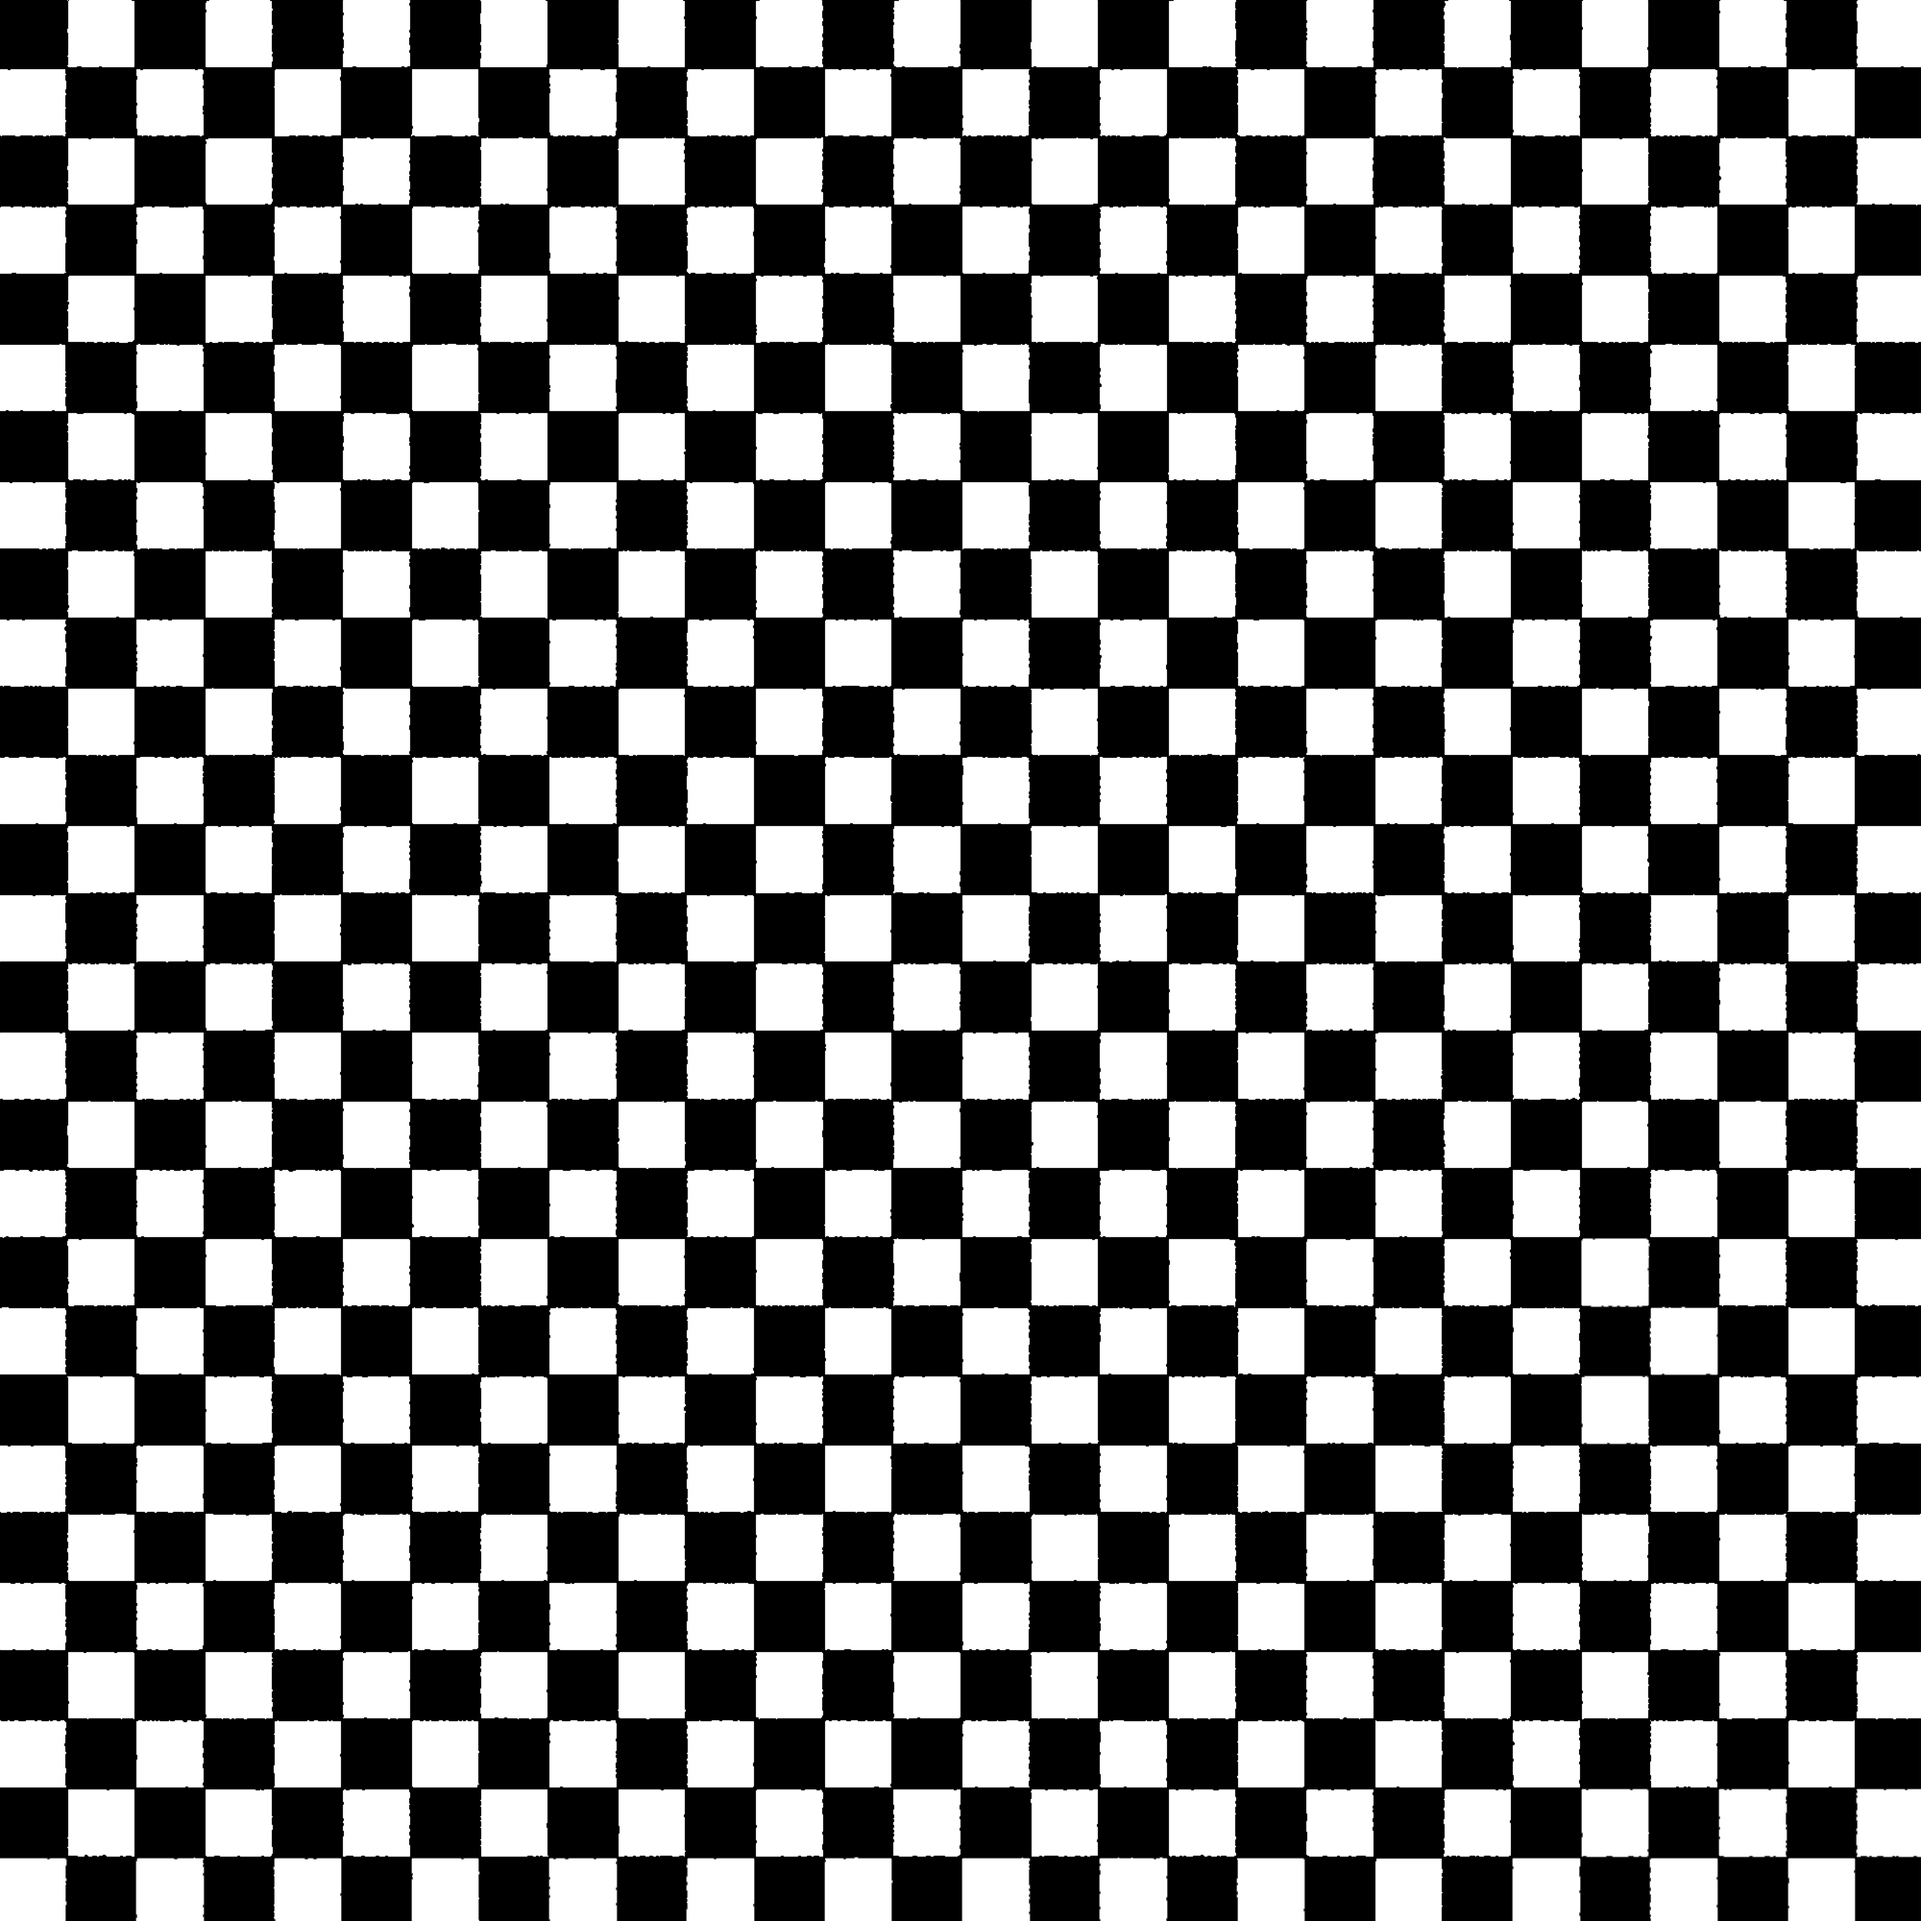
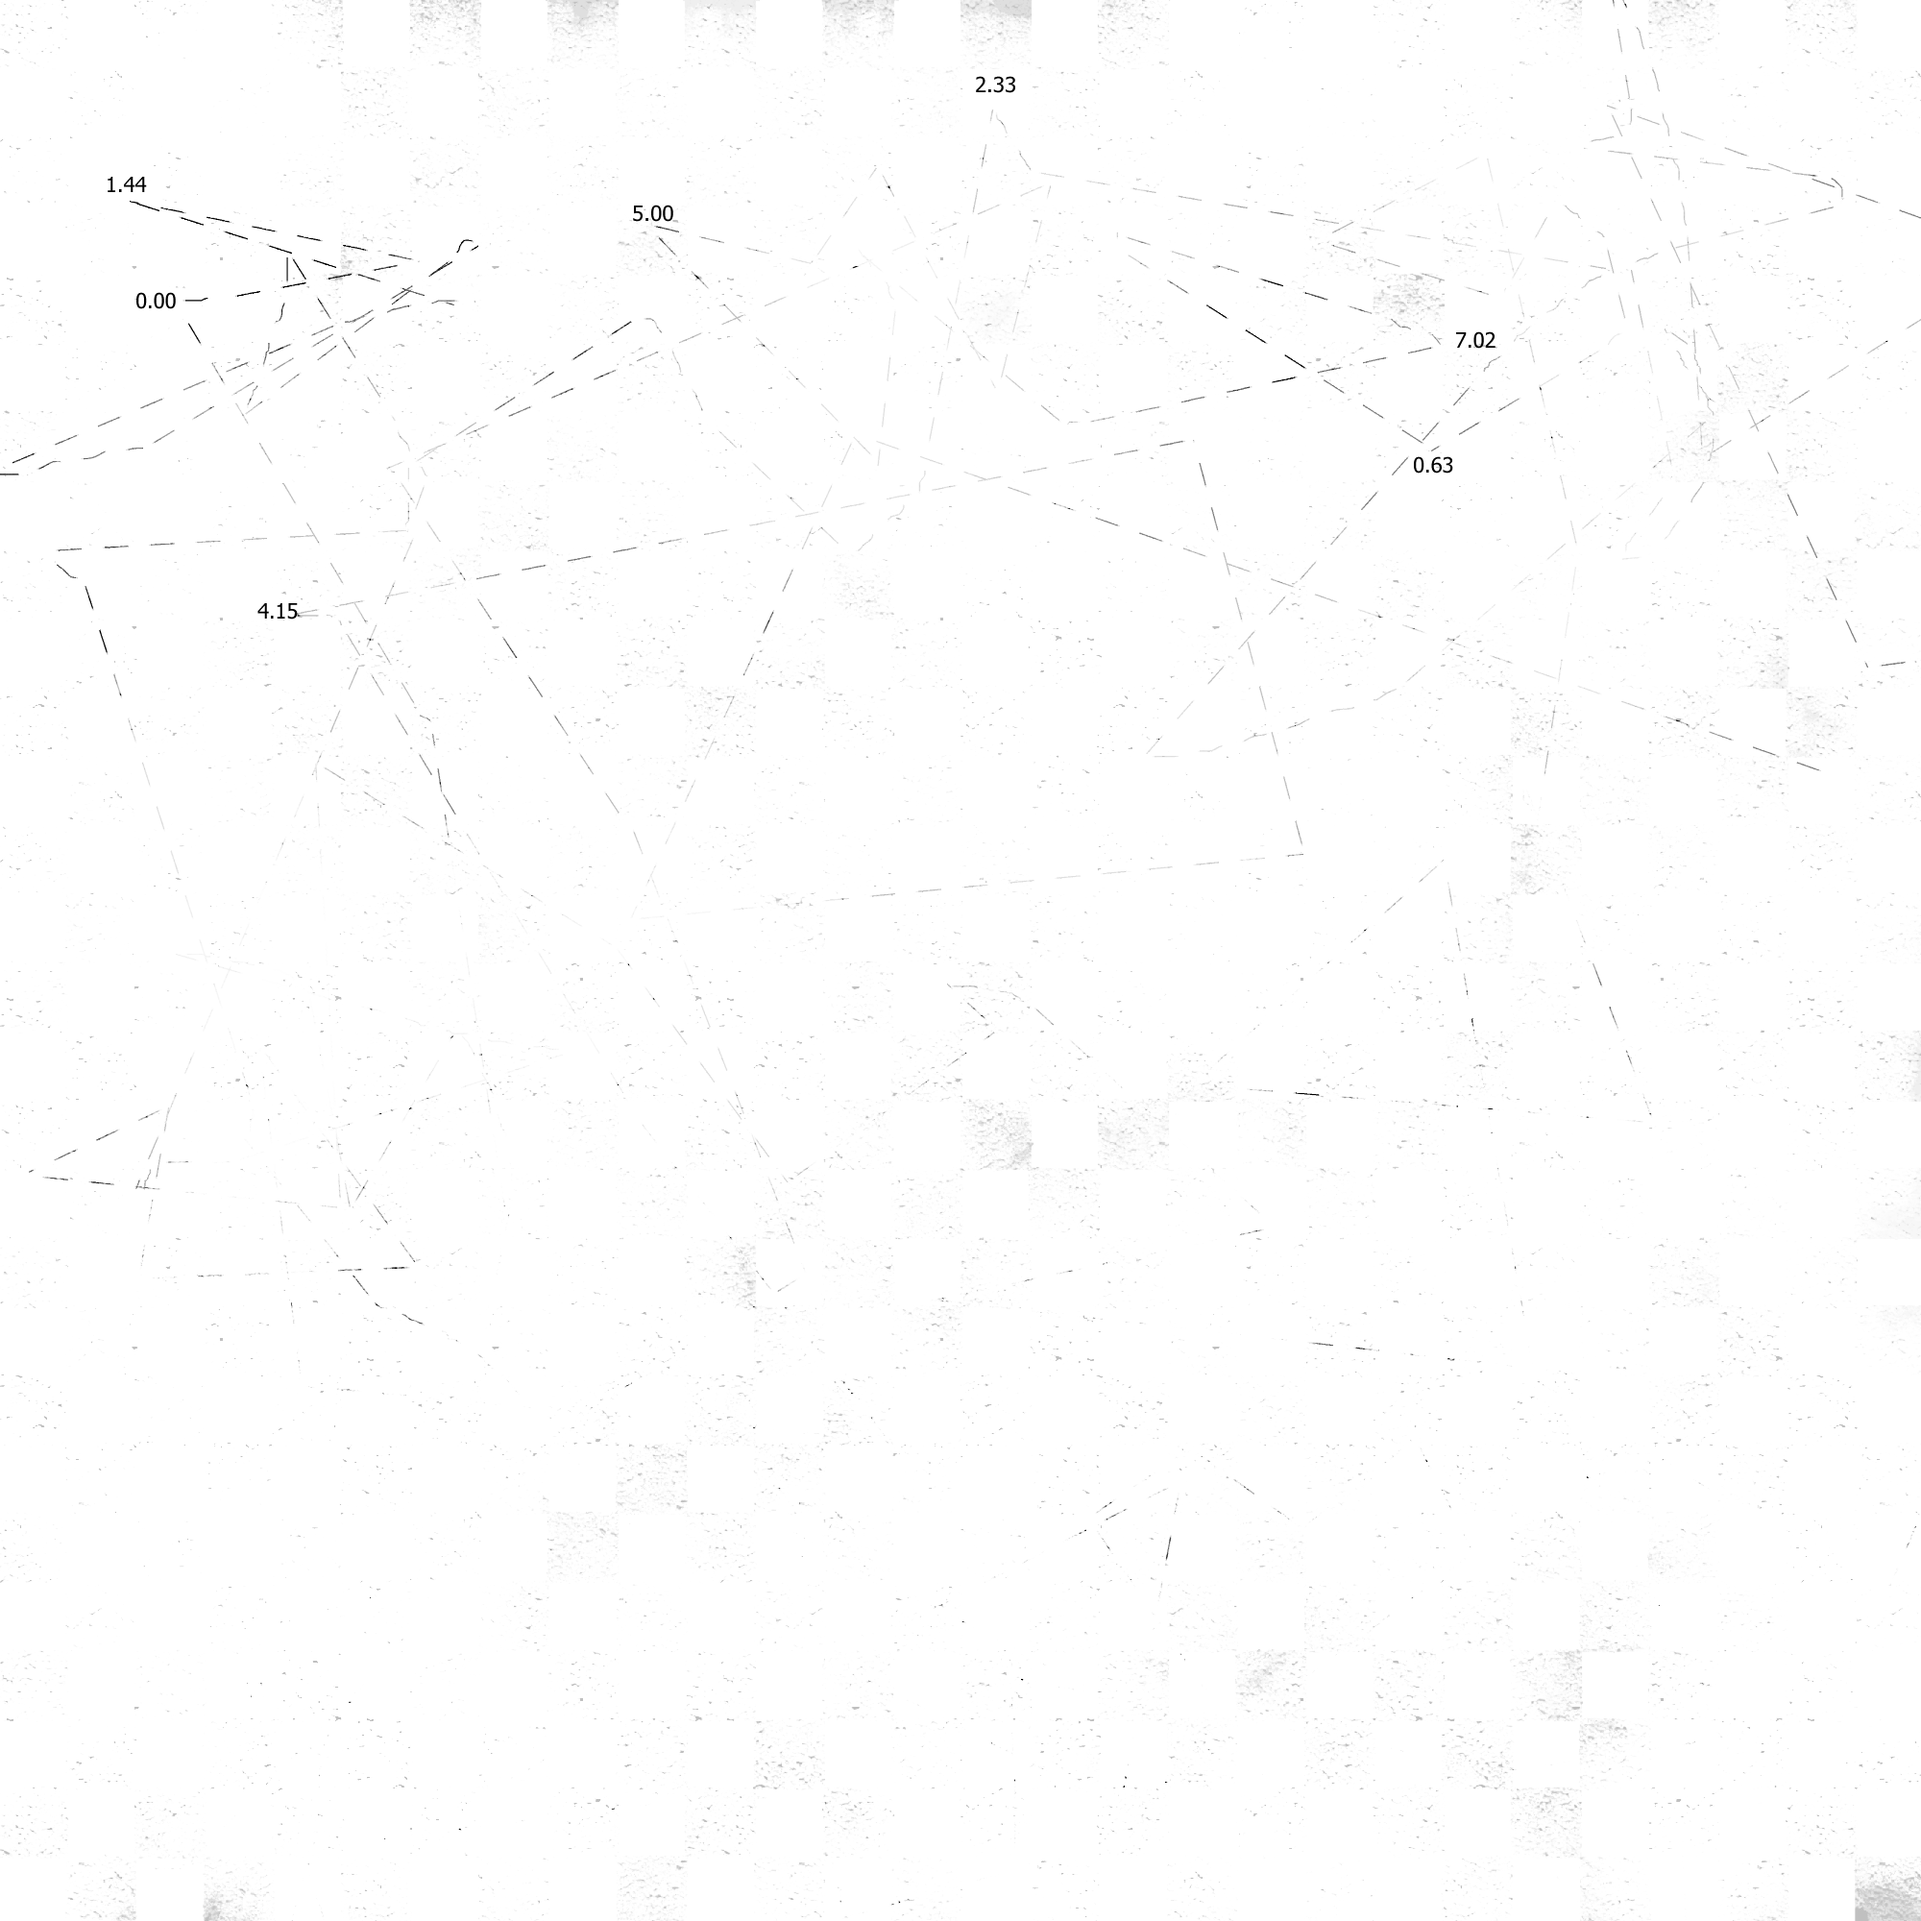
regles de masquage perso en mode fichier

diff --git a/extension/popup/popup.js b/extension/popup/popup.js
@@ -29148,10 +29148,9 @@ function activeEntities() {
   const sel = selectActive(autoEntities, [...manualEntities, ...forced], removedKeys);
   return filterByRules(sel, { disabledTypes, keepValues: parseLines($("alwaysKeep")?.value) });
 }
-function renderTypeToggles() {
+function renderTypeToggles(types) {
   const box = $("typeToggles");
   if (!box) return;
-  const types = [...new Set(autoEntities.map((e) => e.type))];
   if (!types.length) {
     box.innerHTML = '<span class="hint">Lance une analyse pour voir les types d\xE9tect\xE9s.</span>';
     return;
@@ -29217,7 +29216,7 @@ function refreshOverlayIfOpen() {
 function render() {
   const entities = activeEntities();
   $("results").hidden = false;
-  renderTypeToggles();
+  renderTypeToggles([...new Set(autoEntities.map((e) => e.type))]);
   const annPreview = clipToLimit(currentText, entities, PREVIEW_LIMIT);
   $("annotated").innerHTML = annotateHTML(annPreview.text, annPreview.entities) + (annPreview.truncated ? "\u2026" : "");
   $("annotatedMoreBtn").hidden = !annPreview.truncated;
@@ -29396,6 +29395,23 @@ var FILE_TYPES = {
 var chosenFile = null;
 var fileOutBlob = null;
 var fileOutName = "";
+var fileDisabledTypes = /* @__PURE__ */ new Set();
+function renderFileTypeToggles() {
+  const box = $("fileTypeToggles");
+  if (!box) return;
+  box.innerHTML = Object.entries(TYPE_DISPLAY).filter(([t]) => t !== "PERSONNALISE").map(([t, label]) => {
+    const off = fileDisabledTypes.has(t);
+    return `<label class="type-chip ${off ? "off" : ""}"><input type="checkbox" data-type="${t}" ${off ? "" : "checked"}>${esc(label)}</label>`;
+  }).join("");
+}
+renderFileTypeToggles();
+$("fileTypeToggles")?.addEventListener("change", (ev) => {
+  const cb = ev.target.closest("input[data-type]");
+  if (!cb) return;
+  if (cb.checked) fileDisabledTypes.delete(cb.dataset.type);
+  else fileDisabledTypes.add(cb.dataset.type);
+  renderFileTypeToggles();
+});
 function fileSetStatus(msg, cls = "") {
   $("fileStatus").textContent = msg;
   $("fileStatus").className = "status " + cls;
@@ -29447,7 +29463,7 @@ async function processFile() {
   fileSetStatus("Lecture du fichier\u2026");
   try {
     const adapter = await kind.load();
-    const { anonymizeUnits } = await import("./anonymize-units-WAGIYB3A.js");
+    const { anonymizeUnits } = await import("./anonymize-units-765UZJXW.js");
     const input = kind.text ? new TextDecoder("utf-8", { ignoreBOM: true }).decode(await chosenFile.arrayBuffer()) : await chosenFile.arrayBuffer();
     const { units } = adapter.extractTextUnits(input);
     if (!units.length) {
@@ -29458,7 +29474,12 @@ async function processFile() {
     await ensureNER();
     const { results, mapping } = await anonymizeUnits(units, {
       nerPipeline: nerPipe,
-      maskOpts: fileMaskOptions(units)
+      maskOpts: fileMaskOptions(units),
+      // Règles personnalisées : mêmes primitives que le mode texte
+      // (selection.js), appliquées au document combiné entier.
+      forceTerms: parseLines($("fileAlwaysMask")?.value),
+      disabledTypes: fileDisabledTypes,
+      keepValues: parseLines($("fileAlwaysKeep")?.value)
     });
     const byId = new Map(results.map((r) => [r.id, { maskedText: r.maskedText, entities: r.entities }]));
     const masked = adapter.applyMask(input, byId);

diff --git a/src/popup/main.js b/src/popup/main.js
@@ -91,11 +91,12 @@ function activeEntities() {
   return filterByRules(sel, { disabledTypes, keepValues: parseLines($('alwaysKeep')?.value) });
 }
 
-// Puces de types détectés : décocher un type le laisse visible (non masqué).
-function renderTypeToggles() {
+// Puces de types : décocher un type le laisse visible (non masqué).
+// `types` vient de l'analyse texte OU du dernier traitement de fichier —
+// le panneau « Personnaliser » est partagé entre les deux modes.
+function renderTypeToggles(types) {
   const box = $('typeToggles');
   if (!box) return;
-  const types = [...new Set(autoEntities.map(e => e.type))];
   if (!types.length) {
     box.innerHTML = '<span class="hint">Lance une analyse pour voir les types détectés.</span>';
     return;
@@ -172,7 +173,7 @@ function refreshOverlayIfOpen() {
 function render() {
   const entities = activeEntities();
   $('results').hidden = false;
-  renderTypeToggles();
+  renderTypeToggles([...new Set(autoEntities.map(e => e.type))]);
 
   const annPreview = clipToLimit(currentText, entities, PREVIEW_LIMIT);
   $('annotated').innerHTML = annotateHTML(annPreview.text, annPreview.entities) + (annPreview.truncated ? '…' : '');
@@ -376,6 +377,30 @@ const FILE_TYPES = {
 let chosenFile = null;
 let fileOutBlob = null;
 let fileOutName = '';
+let fileDisabledTypes = new Set(); // types que l'utilisateur exclut du masquage fichier
+
+// Contrairement au mode texte (puces générées après analyse), le flux fichier
+// est en un seul clic : on affiche donc TOUS les types connus statiquement,
+// cochés par défaut, pour régler AVANT de traiter. Re-traiter = re-cliquer.
+function renderFileTypeToggles() {
+  const box = $('fileTypeToggles');
+  if (!box) return;
+  box.innerHTML = Object.entries(TYPE_DISPLAY)
+    .filter(([t]) => t !== 'PERSONNALISE') // les masques manuels/forcés sont intouchables
+    .map(([t, label]) => {
+      const off = fileDisabledTypes.has(t);
+      return `<label class="type-chip ${off ? 'off' : ''}"><input type="checkbox" data-type="${t}" ${off ? '' : 'checked'}>${esc(label)}</label>`;
+    }).join('');
+}
+renderFileTypeToggles();
+
+$('fileTypeToggles')?.addEventListener('change', ev => {
+  const cb = ev.target.closest('input[data-type]');
+  if (!cb) return;
+  if (cb.checked) fileDisabledTypes.delete(cb.dataset.type);
+  else fileDisabledTypes.add(cb.dataset.type);
+  renderFileTypeToggles();
+});
 
 function fileSetStatus(msg, cls = '') {
   $('fileStatus').textContent = msg;
@@ -450,7 +475,12 @@ async function processFile() {
     await ensureNER();
     const { results, mapping } = await anonymizeUnits(units, {
       nerPipeline: nerPipe,
-      maskOpts: fileMaskOptions(units)
+      maskOpts: fileMaskOptions(units),
+      // Règles personnalisées : mêmes primitives que le mode texte
+      // (selection.js), appliquées au document combiné entier.
+      forceTerms: parseLines($('fileAlwaysMask')?.value),
+      disabledTypes: fileDisabledTypes,
+      keepValues: parseLines($('fileAlwaysKeep')?.value)
     });
 
     // resultsById porte les DEUX formes : maskedText (CSV/XLSX) et entities (DOCX).

diff --git a/extension/popup/popup.html b/extension/popup/popup.html
@@ -12,7 +12,7 @@
       <header>
         <img class="logo" src="img/ClarenceLogo.png" alt="Clarence">
         <div>
-          <h1>- Clear your data</h1>
+          <h1></h1>
         </div>
       </header>
 
@@ -57,23 +57,23 @@
         <div class="panel" id="masked"></div>
         <button class="btn-ghost overlay-trigger" id="maskedMoreBtn" hidden>Voir tout</button>
         <div class="controls">
-          <button class="btn-primary" id="copyBtn">Copier le texte propre</button>
+          <button class="btn-primary" id="copyBtn"><img src="img/ClarenceCpButtonW.png" class ="cpbtn"></button>
           <span class="status" id="copyStatus"></span>
         </div>
 
         <details>
-          <summary>Table de correspondance (reste en local, effacée à la fermeture du navigateur)</summary>
+          <summary>Table de correspondance</summary>
           <div id="mappingWrap"></div>
         </details>
       </section>
       </div>
 
       <div id="fileMode" hidden>
-        <label class="field-label">Anonymiser un fichier</label>
+        <label class="field-label" for="input"></label> Anonymiser fichier
         <div class="dropzone" id="dropzone">
           <input type="file" id="fileInput" accept=".csv,.xlsx,.docx" hidden>
           <p class="dropzone-main">Glisse ou <button class="link-btn" id="filePickBtn">parcours tes fichiers</button></p>
-          <p class="hint">CSV, .xlsx, .docx — Traitement local</p>
+          <p class="hint">CSV, .xlsx, .docx</p>
         </div>
 
         <div id="fileChosen" hidden>
@@ -86,8 +86,21 @@
 
         <label class="hint" style="display:block;margin-top:8px;cursor:pointer;">
           <input type="checkbox" id="fileRealisticToggle">
-          Pseudonymes réalistes pour noms, lieux et contacts (les données bancaires, NIR et références restent en [TYPE])
+          Pseudonymes (lieux, noms, contacts)
         </label>
+
+        <details id="fileCustomRules">
+          <summary>Personnaliser le masquage</summary>
+          <div class="custom-body">
+            <div class="field-label">Types à masquer <span class="hint">(décoche pour garder visible)</span></div>
+            <div id="fileTypeToggles" class="type-toggles"></div>
+            <label class="field-label" for="fileAlwaysMask">Toujours masquer <span class="hint">(un terme par ligne)</span></label>
+            <textarea id="fileAlwaysMask" class="mini" placeholder="Nom de code projet, patronyme rare…"></textarea>
+            <label class="field-label" for="fileAlwaysKeep">Ne jamais masquer</label>
+            <textarea id="fileAlwaysKeep" class="mini" placeholder="Innovatech, terme métier public…"></textarea>
+          </div>
+        </details>
+
         <div class="status" id="fileStatus"></div>
 
         <section id="fileResults" hidden>

diff --git a/extension/popup/anonymize-units-765UZJXW.js b/extension/popup/anonymize-units-765UZJXW.js
@@ -1,6 +1,8 @@
 import {
   detectNER,
   detectRegex,
+  filterByRules,
+  forcedMasks,
   maskText,
   mergeEntities,
   selectActive
@@ -23,12 +25,17 @@ function joinWithSentinel(units) {
   }
   return { combined, ranges };
 }
-async function anonymizeUnits(units, { nerPipeline, maskOpts } = {}) {
+async function anonymizeUnits(units, { nerPipeline, maskOpts, forceTerms, disabledTypes, keepValues } = {}) {
   const nonEmpty = units.filter((u) => u.text.length > 0);
   const { combined, ranges } = joinWithSentinel(nonEmpty);
   const regexEntities = detectRegex(combined);
   const nerEntities = nerPipeline ? await detectNER(combined, nerPipeline) : [];
-  const active = selectActive(mergeEntities(regexEntities, nerEntities), [], /* @__PURE__ */ new Set());
+  const forced = forcedMasks(combined, forceTerms || []);
+  const selected = selectActive(mergeEntities(regexEntities, nerEntities), forced, /* @__PURE__ */ new Set());
+  const active = filterByRules(selected, {
+    disabledTypes: disabledTypes || /* @__PURE__ */ new Set(),
+    keepValues: keepValues || []
+  });
   const { masked, mapping } = maskText(combined, active, maskOpts);
   const placeholderByEntity = new Map(mapping.map((m) => [`${m.type}|${m.value}`, m.placeholder]));
   const entitiesByUnitId = new Map(ranges.map((r) => [r.id, []]));

diff --git a/extension/popup/popup.css b/extension/popup/popup.css
@@ -84,12 +84,15 @@ body {
   border-radius: 22px;
   background: rgba(255, 250, 242, 0.96);
   backdrop-filter: blur(6px);
+  background-image: url("img/PrintGridTransparent.png");
+  background-size: contain;
+  background-repeat: no-repeat;
+  
 }
 
 header {
   display: flex;
   align-items: center;
-  background: rgba(255, 250, 242, 0.96);
 }
 
 h1 {
@@ -301,9 +304,17 @@ footer {
   height: auto;
   flex-shrink: 0;
   border-radius: 18px;
+  margin: auto;
 }
 
 .dlbtn {
+  width: 20px;
+  height: auto;
+  flex-shrink: 0;
+  border-radius: 18px;
+}
+
+.cpbtn {
   width: 20px;
   height: auto;
   flex-shrink: 0;
